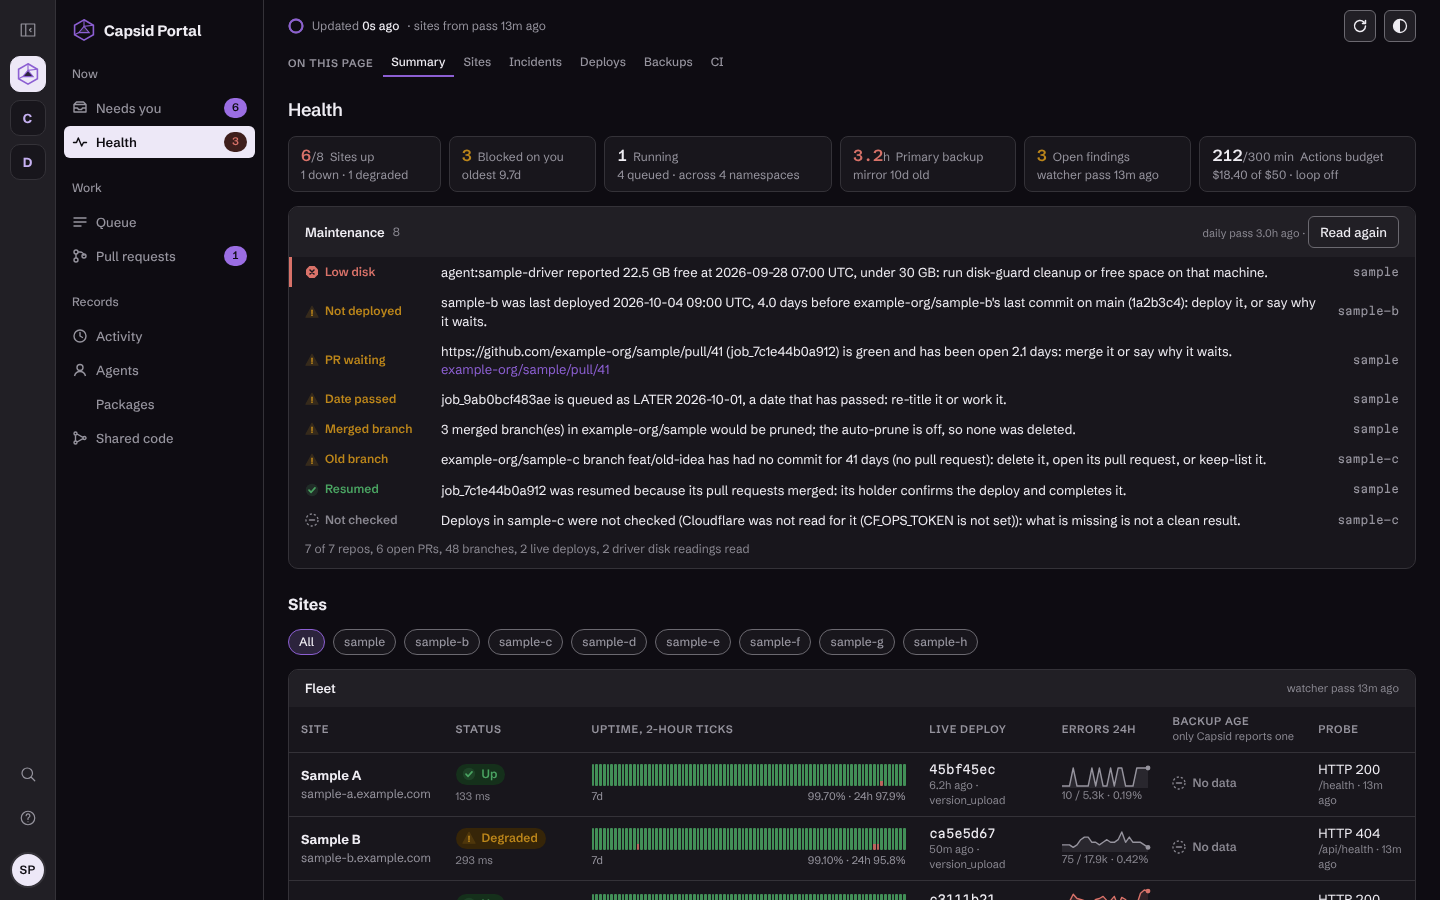
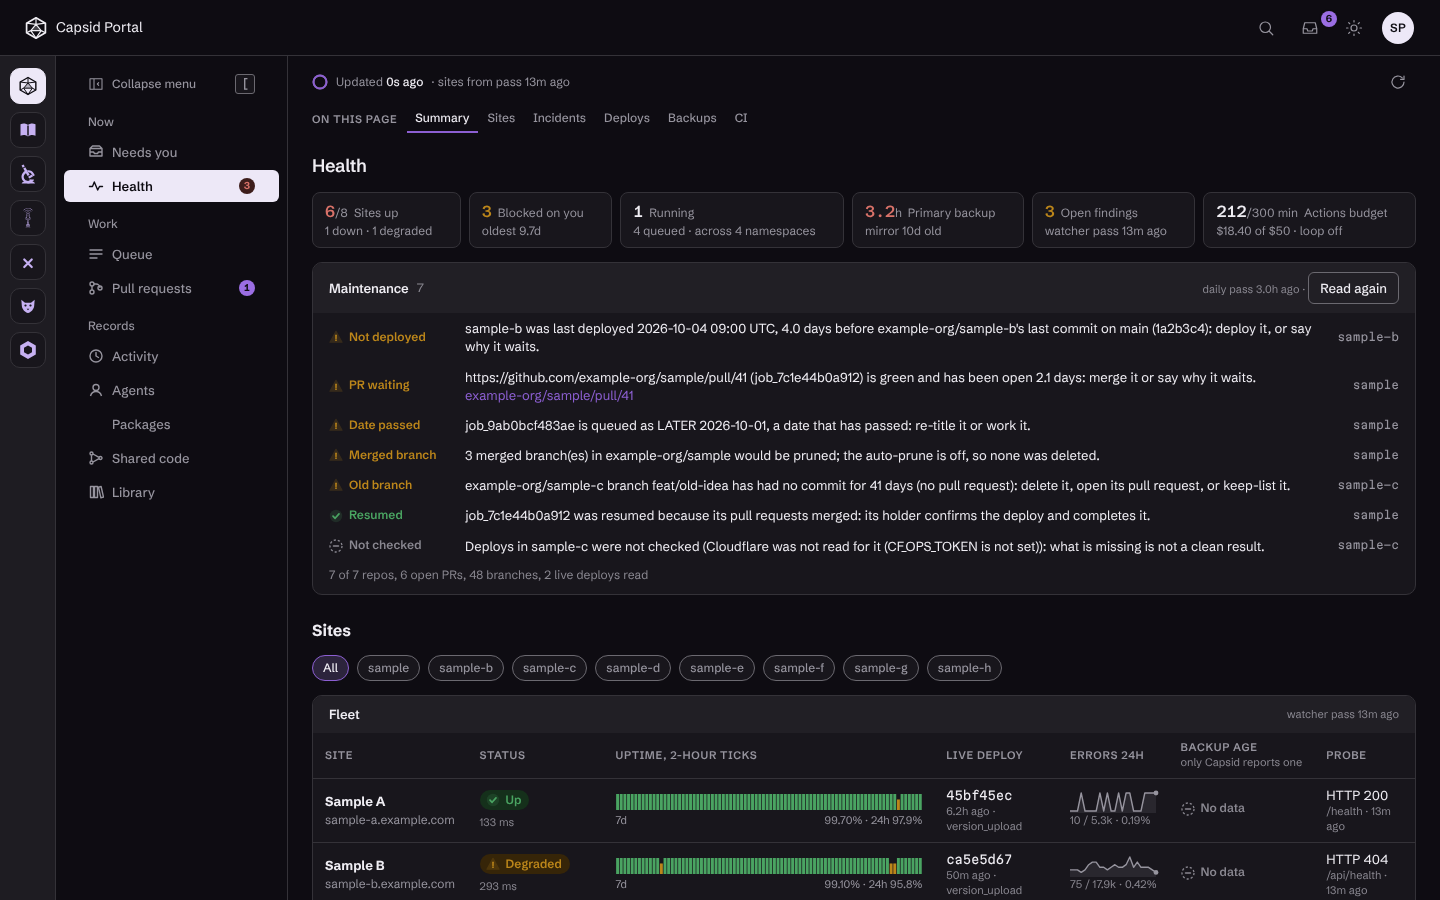
README: the Portal as it is now, with fresh screenshots from sample data
Regenerated docs/images with npm --prefix dashboard run shots on the Capsomer 0.9.0 shell. The mock's digest message said a real name, which the shots privacy check refused; it now says the owner.

diff --git a/dashboard/dev/mock-api.ts b/dashboard/dev/mock-api.ts
@@ -488,7 +488,7 @@ function pushView(): PortalPush {
     problem: null,
     devices: pushDevices,
     // Off until Email Routing is on, as the Worker says it (src/digest.ts digestProblem).
-    digest: { on: false, problem: 'Email Routing is not on: EMAIL_ROUTING is unset, not "on". Dustin turns Email Routing on for the domain and verifies the address, then the seat sets EMAIL_ROUTING to "on" (docs/portal.md, "Daily digest").', to: null, hour_utc: 12, last: null },
+    digest: { on: false, problem: 'Email Routing is not on: EMAIL_ROUTING is unset, not "on". The owner turns Email Routing on for the domain and verifies the address, then the seat sets EMAIL_ROUTING to "on" (docs/portal.md, "Daily digest").', to: null, hour_utc: 12, last: null },
   };
 }
 

diff --git a/README.md b/README.md
@@ -37,6 +37,8 @@ Each figure is a count or a rate across every agent and project, and a rate draw
 4. The session marks the task done by naming that pull request. The pull request is the record of the work ([docs/work-queue.md](docs/work-queue.md), `completeUnclaimed` in `src/jobs-seat.ts`).
 5. Capsid reads the pull request from GitHub and stores what it finds beside what the session said. A task that reaches a push, a deploy, a secret, a database change or a merge stops and waits, with the exact command a person must run.
 
+A pull request that changes what people see waits for the owner to look at its before-and-after screenshots, and Capsid alerts him with a preview.
+
 Agents open pull requests and never merge them. The owner merges, or Capsid merges by itself where a signed policy allows it and every check passes ([docs/autonomy.md](docs/autonomy.md)).
 
 ## What is inside
@@ -49,11 +51,13 @@ Agents open pull requests and never merge them. The owner merges, or Capsid merg
 - **Daily backups.** Every table is copied to R2 each morning and mirrored to a private repository, and a weekly run practises a restore ([docs/backups.md](docs/backups.md)).
 - **Off by default.** An optional loop that proposes improvements to the code, and automatic merging, each have to be turned on.
 
-The owner also has an admin app, the Capsid Portal, which shows the health of each site, the task list and the controls. It is being rebuilt, so only one screen is shown here ([docs/portal.md](docs/portal.md)).
+The owner also has an admin app, the Capsid Portal, at portal.dustinedwards.info. It shows what needs the owner, the health of each site, the task list, open pull requests and the controls ([docs/portal.md](docs/portal.md)). The pictures below are drawn from sample data, not from the live site.
 
 ![The Portal's Health screen, light theme, drawn from sample data](docs/images/health-light.png)
 
 ![The Portal's Health screen, dark theme, drawn from sample data](docs/images/health-dark.png)
+
+![The Portal's task list with one task's details open, drawn from sample data](docs/images/queue-drawer-light.png)
 
 ## What Capsid is not
 
